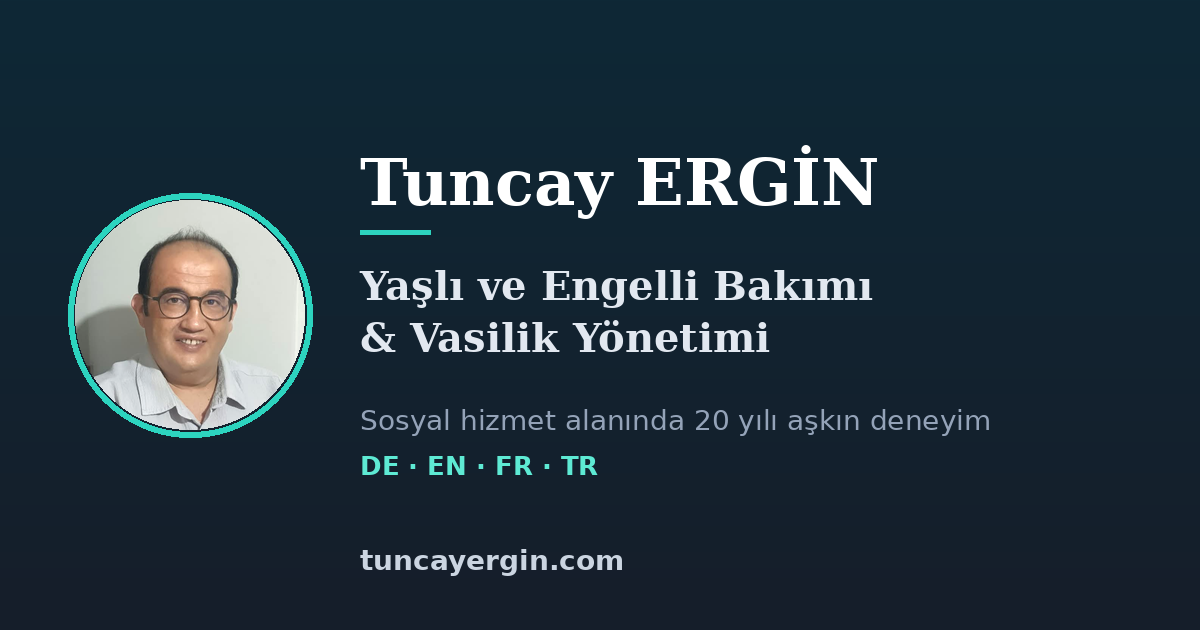
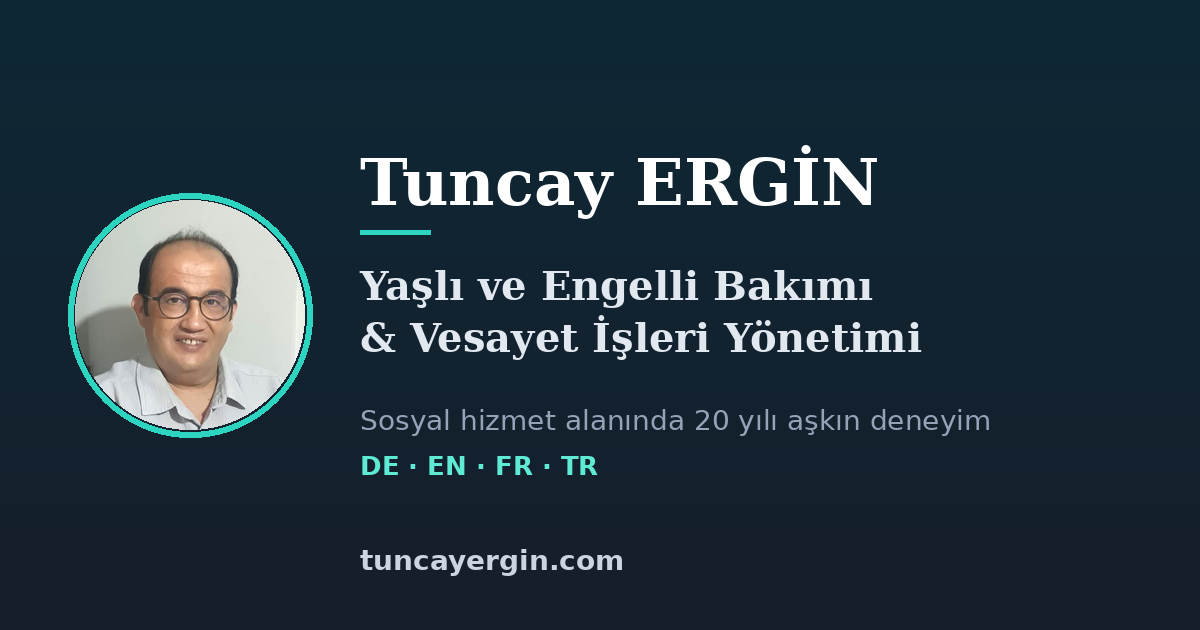
Add files via upload

Changed region(s): [[0.37, 0.5127, 0.7708, 0.573]]

diff --git a/index.html b/index.html
@@ -142,7 +142,7 @@ footer p{margin:2px 0}
 
 <section class="about" id="about">
   <div class="wrap grid">
-    <div class="avatar"><img src="avatar.jpg" alt="Tuncay ERGİN" width="190" height="190" loading="lazy"></div>
+    <div class="avatar"><img src="avatar.jpg" alt="Tuncay ERGİN – Sosyal Hizmet Uzmanı" width="190" height="190" loading="lazy"></div>
     <div>
       <h2 data-i="aboutH"></h2>
       <p data-i="about1"></p>
@@ -225,17 +225,17 @@ var EMAIL        = "info@tuncayergin.com";
 
 var T = {
 de:{
-  tag:"Türkei · Für Expats, Investoren & lokale Anwälte",
+  tag:"Türkei · Für Familien im Ausland, Investoren & lokale Anwälte",
   h1:"Seniorenbetreuung, Behindertenhilfe & Vormundschaft in der Türkei",
   lead:"Mehr als 20 Jahre Erfahrung im Sozialwesen – damit Ihre älteren Angehörigen oder Angehörigen mit Behinderung sowie Ihre Mandanten in der Türkei zuverlässig versorgt und alle organisatorischen Angelegenheiten vor Ort gut begleitet sind.",
   cta:"Jetzt Kontakt aufnehmen",
   aboutH:"Über mich",
-  about1:"Mein Name ist Tuncay ERGİN. Seit 20 Jahren arbeite ich als Fachkraft für Soziale Arbeit und habe in dieser Zeit hunderte Familien mit älteren Angehörigen oder Angehörigen mit Behinderung in schwierigen Lebenssituationen begleitet.",
+  about1:"Mein Name ist Tuncay ERGİN. Seit 20 Jahren arbeite ich als Fachkraft für Soziale Arbeit und habe in dieser Zeit Hunderte Familien mit älteren Angehörigen oder Angehörigen mit Behinderung in schwierigen Lebenssituationen begleitet.",
   about2:"15 Jahre lang war ich als verantwortlicher Einrichtungsleiter eines privaten Pflegezentrums für Menschen mit Behinderung in der Türkei tätig. Diese Erfahrung hat mir ein tiefes Verständnis für pflegerische, rechtliche und menschliche Bedürfnisse vermittelt.",
-  about3:"Heute unterstütze ich Expats und lokale Anwälte dabei, dass ältere Angehörige, Angehörige mit Behinderung und Mandanten in der Türkei würdevoll, sicher und fachgerecht betreut werden. Außerdem berate ich Investoren beim Aufbau und Betrieb privater Pflegezentren.",
+  about3:"Heute unterstütze ich Familien im Ausland und lokale Anwälte dabei, dass ältere Angehörige, Angehörige mit Behinderung und Mandanten in der Türkei würdevoll, sicher und fachgerecht betreut werden. Außerdem berate ich Investoren beim Aufbau und Betrieb privater Pflegezentren.",
   stat1:"Jahre Sozialarbeit", stat2:"Jahre als Einrichtungsleiter",
   servH:"Meine Leistungen",
-  servP:"Umfassende Unterstützung in der Senioren- und Behindertenbetreuung sowie Beratung für Investoren privater Pflegezentren – zuverlässig vor Ort, transparent für Sie. Alle Leistungen werden projektbezogen nach einem persönlichen Beratungsgespräch kalkuliert. Rechtsberatung erfolgt ausschließlich durch zugelassene Anwälte.",
+  servP:"Umfassende Unterstützung in der Seniorenbetreuung und Behindertenhilfe sowie Beratung für Investoren privater Pflegezentren – zuverlässig vor Ort, transparent für Sie. Alle Leistungen werden projektbezogen nach einem persönlichen Beratungsgespräch kalkuliert. Rechtsberatung erfolgt ausschließlich durch zugelassene Anwälte.",
   s1t:"Vormundschaft nach türkischem Recht & Gerichtskoordination",
   s1p:"Vorbereitung der jährlichen Rechenschafts- und Vermögensberichte für die türkischen Zivilgerichte (Sulh Hukuk Mahkemeleri) sowie Koordination mit den Familienanwälten. Die rechtliche Beratung bleibt bei Ihren Anwälten.",
   s2t:"Medizinische Logistik & Medikamentenorganisation",
@@ -253,14 +253,14 @@ de:{
   rights:"© 2026 Tuncay ERGİN. Alle Rechte vorbehalten."
 },
 en:{
-  tag:"Turkey · For Expats, Investors & Local Lawyers",
+  tag:"Turkey · For Families Abroad, Investors & Local Lawyers",
   h1:"Senior & Disability Care and Guardianship Support in Turkey",
   lead:"Over 20 years of experience in social work – so that your older relatives, relatives with disabilities and clients in Turkey are reliably cared for and every practical matter on the ground is well handled.",
   cta:"Get in Touch",
   aboutH:"About Me",
   about1:"My name is Tuncay ERGİN. I have worked as a social work specialist for 20 years and have supported hundreds of families with older relatives or relatives with disabilities through difficult life situations.",
   about2:"For 15 years, I was the responsible facility manager of a private care center for people with disabilities in Turkey. This experience gave me a deep understanding of care-related, legal and human needs.",
-  about3:"Today I help expats and local lawyers ensure that older relatives, relatives with disabilities and clients in Turkey receive dignified, safe and professional care – and I advise investors on setting up and running private care centers.",
+  about3:"Today I help families abroad and local lawyers ensure that older relatives, relatives with disabilities and clients in Turkey receive dignified, safe and professional care – and I advise investors on setting up and running private care centers.",
   stat1:"Years in Social Work", stat2:"Years as Facility Manager",
   servH:"My Services",
   servP:"Comprehensive support in senior and disability care, plus consulting for investors in private care centers – reliable on the ground, transparent for you. All services are priced per project after a personal consultation. Legal advice is provided exclusively by licensed lawyers.",
@@ -281,14 +281,14 @@ en:{
   rights:"© 2026 Tuncay ERGİN. All rights reserved."
 },
 fr:{
-  tag:"Turquie · Pour expatriés, investisseurs & avocats locaux",
+  tag:"Turquie · Pour les familles à l'étranger, investisseurs & avocats locaux",
   h1:"Accompagnement des seniors et des personnes en situation de handicap & suivi des tutelles en Turquie",
   lead:"Plus de 20 ans d'expérience dans le travail social – pour que vos proches âgés ou en situation de handicap, ainsi que vos clients en Turquie, soient pris en charge de manière fiable et que toutes les démarches sur place soient bien accompagnées.",
   cta:"Me contacter",
   aboutH:"À propos de moi",
   about1:"Je m'appelle Tuncay ERGİN. Je travaille depuis 20 ans comme spécialiste du travail social et j'ai accompagné des centaines de familles ayant des proches âgés ou en situation de handicap dans des situations de vie difficiles.",
   about2:"Pendant 15 ans, j'ai été directeur d'établissement d'un centre de soins privé pour personnes en situation de handicap en Turquie. Cette expérience m'a donné une compréhension approfondie des besoins en matière de soins, de droit et d'humanité.",
-  about3:"Aujourd'hui, j'aide les expatriés et les avocats locaux à garantir que leurs proches âgés ou en situation de handicap, ainsi que leurs clients en Turquie, bénéficient d'une prise en charge digne, sûre et professionnelle – et je conseille les investisseurs dans la création et l'exploitation de centres de soins privés.",
+  about3:"Aujourd'hui, j'aide les familles vivant à l'étranger et les avocats locaux à garantir que leurs proches âgés ou en situation de handicap, ainsi que leurs clients en Turquie, bénéficient d'une prise en charge digne, sûre et professionnelle – et je conseille les investisseurs dans la création et l'exploitation de centres de soins privés.",
   stat1:"Ans en travail social", stat2:"Ans comme directeur d'établissement",
   servH:"Mes services",
   servP:"Un accompagnement complet pour les seniors et les personnes en situation de handicap, ainsi que du conseil aux investisseurs de centres de soins privés – fiable sur place, transparent pour vous. Tous les services sont tarifés par projet après un échange personnalisé. Le conseil juridique est assuré exclusivement par des avocats habilités.",
